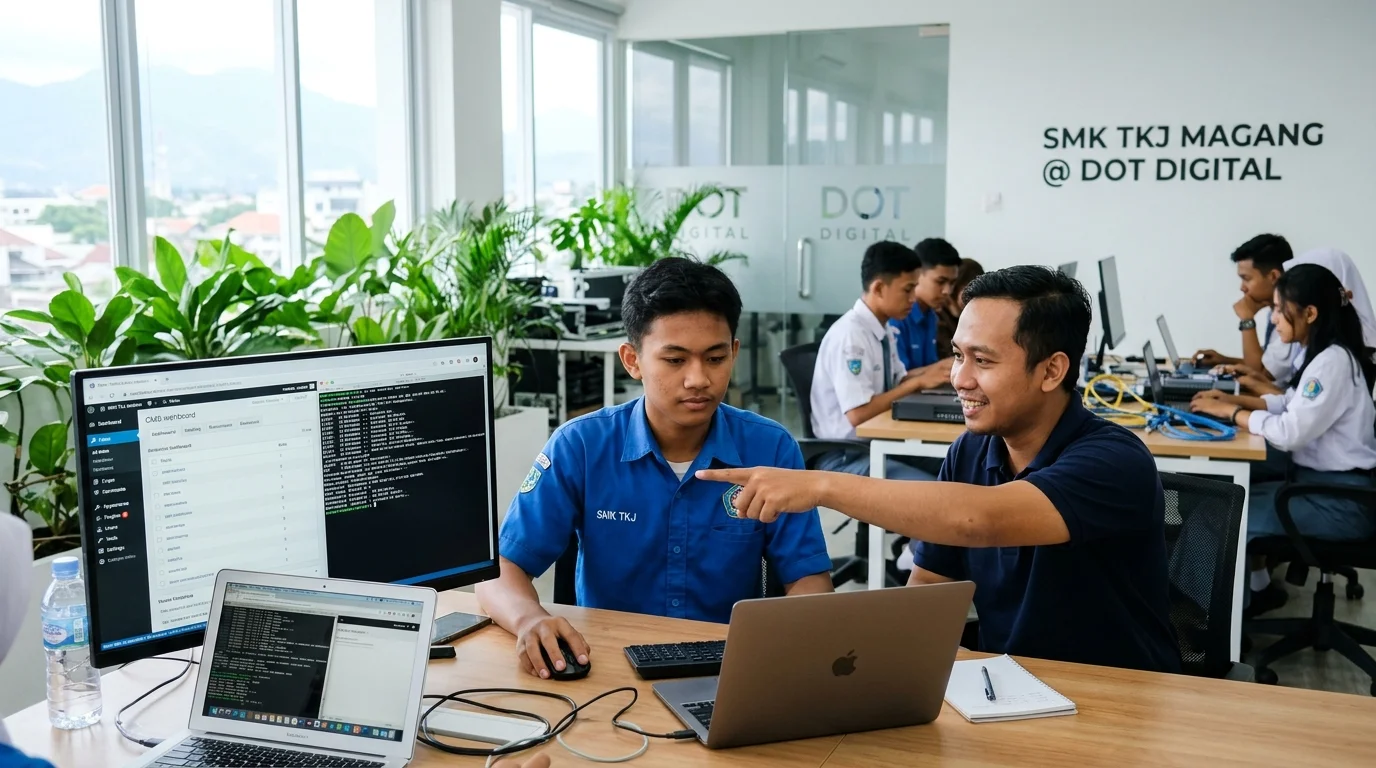
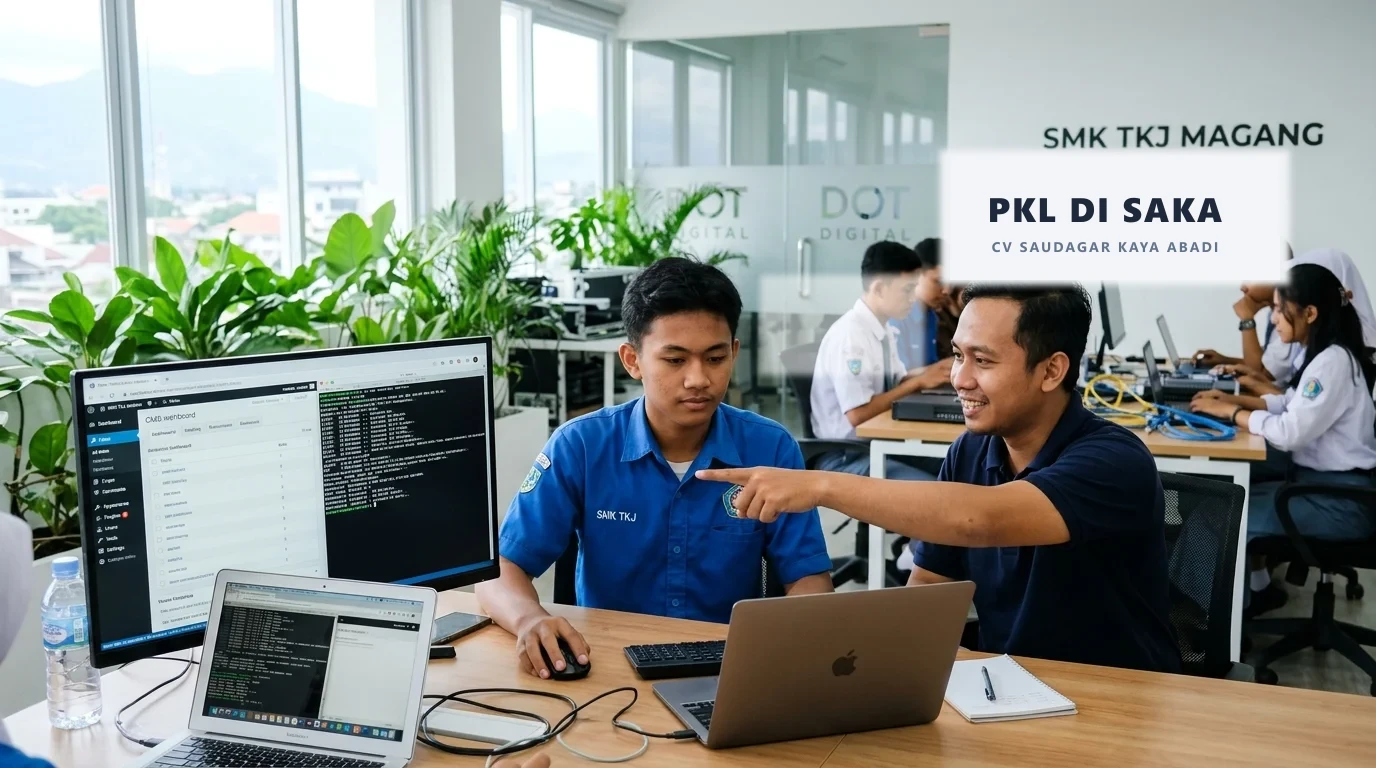
fix wall branding to PKL DI SAKA and set all blog authors to Mochammad Evan Pratama

Changed region(s): [[0.5312, 0.1875, 0.9375, 0.5]]

diff --git a/src/content/blog/tempat-pkl-di-malang.md b/src/content/blog/tempat-pkl-di-malang.md
@@ -1,10 +1,10 @@
----
+---
 title: "Tempat PKL di Malang untuk Siswa SMK dan Mahasiswa Panduan Memilih Program dan Pendaftaran"
 description: "Sedang mencari tempat PKL di Malang? Pelajari cara memilih program sesuai jurusan, persiapan administrasi, dan informasi pendaftaran PKL DISAKA."
 answer: "Tempat PKL di Malang yang berkualitas harus selaras dengan jurusan siswa, memiliki alur pembelajaran dan bimbingan praktisi nyata, serta tertib administrasi. Calon peserta dapat mempertimbangkan PKL DISAKA dengan mengonfirmasi ketersediaan divisi dan jadwal pendaftaran resmi."
 category: "Rekomendasi & Panduan PKL"
 eyebrow: "PANDUAN PILAR TEMPAT PKL MALANG"
-author: "Tim Redaksi PKL DISAKA"
+author: "Mochammad Evan Pratama"
 authorRole: "Review Teknis & Redaksi Vokasi Industri Saka Malang"
 published: 2026-11-11
 updated: 2026-11-11
@@ -225,4 +225,5 @@ Jangan hanya memilih berdasarkan jarak geografis semata. Kesesuaian kegiatan den
 Memilih tempat PKL di Malang membutuhkan pertimbangan matang mengenai kesesuaian jurusan, aktivitas pembelajaran, administrasi, jadwal, dan lokasi. Calon peserta sebaiknya mencari informasi secara teliti agar kegiatan yang diikuti memberi manfaat nyata bagi masa depan.
 
 PKL DISAKA dapat dipertimbangkan sebagai salah satu pilihan informasi bagi siswa SMK dan mahasiswa vokasi. Pastikan untuk mengonfirmasi bidang yang tersedia, memahami [alur cara daftar PKL resmi](/cara-daftar/), dan memeriksa periode penerimaan sebelum mendaftar melalui situs resmi [PKL DISAKA](/) maupun direktori [panduan PKL di Malang](/pkl-malang/).
+
 

diff --git a/src/content/blog/tempat-pkl-rpl-tkj-malang.md b/src/content/blog/tempat-pkl-rpl-tkj-malang.md
@@ -1,10 +1,10 @@
----
+---
 title: "Tempat PKL Jurusan RPL dan TKJ di Malang untuk Siswa SMK Panduan Kompetensi dan Pembagian Tugas"
 description: "Mencari tempat PKL jurusan RPL dan TKJ di Malang? Pelajari kompetensi yang perlu disiapkan, contoh kegiatan, dan informasi PKL DISAKA."
 answer: "Siswa RPL dan TKJ di Malang perlu memilih tempat PKL yang spesifik melatih kompetensi kejuruan: pengembangan web, logika koding, dan basis data untuk RPL, serta pemeliharaan hardware, instalasi OS, dan jaringan komputer untuk TKJ. PKL DISAKA membuka penugasan terarah sesuai kompetensi kedua jurusan tersebut."
 category: "Kompetensi Teknologi & IT"
 eyebrow: "PANDUAN JURUSAN RPL & TKJ"
-author: "Tim Redaksi PKL DISAKA"
+author: "Mochammad Evan Pratama"
 authorRole: "Review Teknis & Redaksi Vokasi Industri Saka Malang"
 published: 2026-11-11
 updated: 2026-11-11
@@ -207,4 +207,5 @@ Kunjungi [website resmi PKL DISAKA](/) untuk memperoleh informasi kontak dan reg
 Tempat PKL jurusan RPL dan TKJ di Malang perlu dipilih berdasarkan kompetensi yang ingin dikembangkan siswa. RPL berfokus pada rancang bangun perangkat lunak dan web, sedangkan TKJ berhubungan dengan keandalan komputer dan infrastruktur jaringan.
 
 Sebelum mendaftar ke PKL DISAKA, pelajari rincian [prosedur cara daftar PKL](/cara-daftar/), siapkan CV, contoh karya proyek, rincian periode PKL, dan surat pengantar dari sekolah. Dapatkan panduan lengkap penempatan divisi melalui [sektor magang IT di Malang](/pkl-malang/) dan [website resmi PKL DISAKA](/).
+
 

diff --git a/src/content/blog/cara-mencari-tempat-pkl-smk-malang.md b/src/content/blog/cara-mencari-tempat-pkl-smk-malang.md
@@ -1,10 +1,10 @@
----
+---
 title: "Cara Mencari Tempat PKL untuk Siswa SMK di Malang Lengkap Tahapan Syarat dan Contoh Pesan"
 description: "Bingung mencari tempat PKL untuk SMK di Malang? Pelajari langkah pencarian, dokumen yang dibutuhkan, dan cara menanyakan pendaftaran PKL DISAKA."
 answer: "Cara mencari tempat PKL untuk SMK di Malang dimulai dengan mengetahui jadwal kalender sekolah, menentukan bidang sesuai kejuruan, menyiapkan surat pengantar serta CV, menghubungi narahubung resmi 1-2 bulan sebelumnya, dan mengonfirmasi ketersediaan kuota secara sopan. PKL DISAKA menerima pendaftaran transparan untuk berbagai jurusan."
 category: "Panduan Administrasi & Pendaftaran"
 eyebrow: "PANDUAN LANGKAH & TAHAPAN PENDAFTARAN"
-author: "Tim Redaksi PKL DISAKA"
+author: "Mochammad Evan Pratama"
 authorRole: "Review Teknis & Redaksi Vokasi Industri Saka Malang"
 published: 2026-11-11
 updated: 2026-11-11
@@ -160,4 +160,5 @@ Sampaikan pertanyaan dengan jelas, gunakan tata bahasa Indonesia yang baik, dan 
 Cara mencari tempat PKL untuk siswa SMK di Malang memerlukan strategi yang disiplin dan persiapan administrasi yang tertib. Dengan menentukan bidang sesuai keahlian sejak 1–2 bulan sebelum jadwal masuk, Anda memiliki peluang jauh lebih besar untuk diterima di tempat magang yang berkualitas.
 
 Bagi Anda yang ingin mengonfirmasi kuota divisi industri digital di Malang, pelajari informasi selengkapnya melalui [panduan PKL di Malang](/pkl-malang/) dan [situs resmi PKL DISAKA](/) di Kota Malang.
+
 

diff --git a/src/content/blog/pkl-digital-marketing-desain-grafis-malang.md b/src/content/blog/pkl-digital-marketing-desain-grafis-malang.md
@@ -1,10 +1,10 @@
----
+---
 title: "PKL Digital Marketing dan Desain Grafis di Malang untuk Siswa SMK Keterampilan dan Portofolio"
 description: "Cari program PKL digital marketing dan desain grafis di Malang? Pelajari keterampilan, portofolio, dan cara menanyakan program PKL DISAKA."
 answer: "Program PKL digital marketing dan desain grafis di Malang melatih siswa memadukan strategi pemasaran digital (SEO, media sosial, riset pasar) dengan perancangan visual komersial (branding, layout, tipografi, dan konten multimedia). PKL DISAKA memfasilitasi kedua bidang ini melalui proyek komersial riil."
 category: "Kreatif & Pemasaran Digital"
 eyebrow: "PANDUAN BIDANG KREATIF & MARKETING"
-author: "Tim Redaksi PKL DISAKA"
+author: "Mochammad Evan Pratama"
 authorRole: "Review Teknis & Redaksi Vokasi Industri Saka Malang"
 published: 2026-11-11
 updated: 2026-11-11
@@ -192,4 +192,5 @@ Informasi resmi mengenai kontak dan alamat kantor dapat diakses melalui [PKL di 
 PKL digital marketing dan desain grafis di Malang memberikan kesempatan emas bagi siswa untuk mengasah kemampuan komunikasi visual dan strategi pemasaran digital berstandar industri.
 
 Sebelum mengajukan permohonan, pelajari tata [cara daftar PKL SMK & mahasiswa](/cara-daftar/), pastikan portofolio karya telah tersusun rapi, dan koordinasikan jadwal pelaksanaan dengan guru pembimbing sekolah. Dapatkan rincian pendaftaran melalui [panduan PKL di Malang](/pkl-malang/) dan [website resmi PKL DISAKA](/) di Kota Malang.
+
 

diff --git a/src/content/blog/cara-memilih-tempat-pkl-tkj.md b/src/content/blog/cara-memilih-tempat-pkl-tkj.md
@@ -1,10 +1,10 @@
----
+---
 title: "Cara Memilih Tempat PKL TKJ yang Sesuai dengan Kompetensi Siswa"
 description: "Pelajari cara memilih tempat PKL TKJ berdasarkan kompetensi, fasilitas, pembimbing, lokasi, dan kegiatan kerja yang sesuai untuk siswa SMK."
 answer: "Cara memilih tempat PKL TKJ adalah dengan mempertimbangkan kesesuaian penugasan teknis dengan kurikulum kejuruan, ketersediaan mentor pembimbing, kelengkapan fasilitas studio, serta kejelasan administrasi sekolah agar pengalaman magang bermanfaat optimal."
 category: "Tips & Strategi Vokasi"
 eyebrow: "PANDUAN EVALUASI MITRA MAGANG"
-author: "Van"
+author: "Mochammad Evan Pratama"
 authorRole: "Reviewer: Mochammad Evan Pratama • Koordinator Pembinaan Vokasi"
 published: 2026-11-13
 updated: 2026-11-13
@@ -151,4 +151,5 @@ Untuk memperdalam persiapan memilih tempat magang Anda, baca juga artikel terkai
 Memilih tempat PKL TKJ yang tepat memerlukan evaluasi menyeluruh mengenai relevansi penugasan, keberadaan mentor pembimbing, ketersediaan fasilitas kerja, serta legalitas administrasi sekolah. Pengalaman magang yang berkualitas akan membentuk kesiapan mental dan keterampilan kerja yang nyata bagi masa depan Anda.
 
 CV Saudagar Kaya Abadi di kawasan Cemoro Kandang, Kedungkandang, dapat dihubungi untuk menanyakan peluang PKL di bidang website dan teknologi digital. Dapatkan informasi kuota dan konsultasi pendaftaran melalui portal [PKL di Saka](/) dan halaman [PKL jurusan TKJ](/jurusan/tkj/).
+
 

diff --git a/src/content/blog/kegiatan-pkl-jurusan-tkj.md b/src/content/blog/kegiatan-pkl-jurusan-tkj.md
@@ -1,10 +1,10 @@
----
+---
 title: "Kegiatan PKL Jurusan TKJ yang Akan Dipelajari Siswa Selama Magang"
 description: "Kenali kegiatan PKL jurusan TKJ, mulai dari perawatan komputer, jaringan, troubleshooting, hingga pekerjaan digital yang dapat dipelajari siswa SMK."
 answer: "Kegiatan PKL jurusan TKJ meliputi pengenalan perangkat komputer, jaringan LAN/WLAN, troubleshooting, dokumentasi teknis, dan keterampilan pengelolaan website digital sesuai bidang penempatan industri."
 category: "Kurikulum & Penugasan"
 eyebrow: "PANDUAN AKTIVITAS MAGANG TKJ"
-author: "Van"
+author: "Mochammad Evan Pratama"
 authorRole: "Reviewer: Mochammad Evan Pratama • Koordinator Pembinaan Vokasi"
 published: 2026-11-13
 updated: 2026-11-13
@@ -184,4 +184,5 @@ Agar wawasan seputar pelaksanaan magang kejuruan Anda semakin komprehensif, pela
 Kegiatan PKL jurusan TKJ tidak selalu sama karena mengikuti bidang usaha dan fasilitas tempat praktik. Siswa dapat mempelajari komputer, jaringan, troubleshooting, dokumentasi, hingga pekerjaan website dan ekosistem digital.
 
 Sebelum memilih tempat, pastikan kegiatan yang ditawarkan sesuai dengan kompetensi sekolah dan terdapat pembimbing yang dapat memberikan arahan. CV Saudagar Kaya Abadi di Cemoro Kandang, Kedungkandang, dapat dihubungi melalui pusat informasi [PKL di Saka](/) dan halaman [PKL jurusan TKJ](/jurusan/tkj/) untuk menanyakan kemungkinan kegiatan PKL yang berkaitan dengan website dan pekerjaan digital.
+
 

diff --git a/src/content/blog/tempat-pkl-sesuai-jurusan.md b/src/content/blog/tempat-pkl-sesuai-jurusan.md
@@ -1,10 +1,10 @@
----
+---
 title: "Tempat PKL Sesuai Jurusan SMK untuk Memulai Karier Profesional"
 description: "Panduan memilih tempat PKL sesuai jurusan SMK. Pelajari kriteria divisi TKJ, RPL, DKV, Bisnis Digital, dan strategi mendapatkan pengalaman kerja relevan."
 answer: "Tempat PKL sesuai jurusan adalah lingkungan industri yang menyediakan fasilitas penugasan teknis selaras dengan kurikulum kejuruan siswa (seperti jaringan untuk TKJ, koding untuk RPL, atau desain visual untuk DKV). PKL DISAKA di Malang menyediakan penempatan divisi magang terstruktur yang disesuaikan dengan jurusan masing-masing siswa."
 category: "Kesesuaian Jurusan & Kompetensi"
 eyebrow: "PANDUAN KURIKULUM & DIVISI MAGANG"
-author: "Tim Redaksi PKL DISAKA"
+author: "Mochammad Evan Pratama"
 authorRole: "Review Teknis & Redaksi Vokasi Industri Saka Malang"
 published: 2026-11-12
 updated: 2026-11-12
@@ -142,4 +142,5 @@ Untuk memperluas pemahaman Anda sebelum melamar magang, telusuri rujukan praktis
 Tempat PKL yang ideal adalah tempat yang memberi Anda ruang bertumbuh sesuai dengan kompetensi jurusan kejuruan. Keberhasilan magang tidak dinilai dari seberapa besar gedung kantor tempat Anda beraktivitas, melainkan dari seberapa banyak keterampilan terapan yang berhasil Anda kuasai.
 
 Kunjungi [website resmi PKL DISAKA](/) untuk melihat direktori program magang per divisi jurusan dan berkonsultasi langsung mengenai kesesuaian kurikulum sekolah Anda.
+
 

diff --git a/src/content/blog/tempat-pkl-terdekat-dari-rumah.md b/src/content/blog/tempat-pkl-terdekat-dari-rumah.md
@@ -1,10 +1,10 @@
----
+---
 title: "Cara Menemukan Tempat PKL Terdekat dari Rumah dengan Google Maps"
 description: "Panduan mencari tempat PKL terdekat dari rumah menggunakan Google Maps secara efektif. Temukan kantor relevan sesuai jurusan, tips kata kunci, dan verifikasi alamat."
 answer: "Cara menemukan tempat PKL terdekat dari rumah dengan Google Maps adalah dengan memanfaatkan fitur pencarian lokasi berbasis kata kunci jurusan (seperti IT, studio desain, atau digital marketing), memfilter radius jarak tempuh, mengecek foto serta ulasan lokasi, lalu menghubungi nomor kontak resmi yang tertera untuk mengonfirmasi penerimaan magang."
 category: "Tips & Panduan Lokasi"
 eyebrow: "PANDUAN NAVIGASI & PENCARIAN TEMPAT MAGANG"
-author: "Tim Redaksi PKL DISAKA"
+author: "Mochammad Evan Pratama"
 authorRole: "Review Teknis & Redaksi Vokasi Industri Saka Malang"
 published: 2026-11-12
 updated: 2026-11-12
@@ -140,4 +140,5 @@ Agar proses pencarian tempat magang Anda semakin efektif, baca juga referensi te
 Google Maps merupakan alat bantu yang sangat efektif untuk menemukan tempat PKL terdekat dari rumah secara cepat dan terukur. Jadikan hasil pencarian peta sebagai daftar rujukan awal, lalu teliti kesesuaian tugas, kontak resmi, dan persetujuan guru sekolah sebelum memutuskan.
 
 Jelajahi informasi alur bimbingan, fasilitas kerja, dan pilihan divisi magang terlengkap dengan mengunjungi [PKL di Saka](/) sekarang juga.
+
 

diff --git a/src/content/blog/apa-yang-dikerjakan-anak-magang-web-developer.md b/src/content/blog/apa-yang-dikerjakan-anak-magang-web-developer.md
@@ -1,10 +1,10 @@
----
+---
 title: "Apa yang Dikerjakan Anak Magang Web Developer di Agensi Digital? Alur Kerja, Tools, dan Tugas Nyata"
 description: "Ketahui rutinitas harian anak magang web developer: slicing desain Figma ke HTML/CSS, perbaikan bug website, optimasi responsif mobile, dan alur bimbingan bersama mentor."
 answer: "Anak magang web developer di agensi digital bertugas mengonversi desain antarmuka menjadi halaman web yang responsif, mengelola komponen front-end, memperbaiki bug tampilan di berbagai ukuran layar, mempelajari optimasi kecepatan SEO web, dan berkolaborasi menggunakan Git bersama mentor industri."
 category: "Pengalaman & Teknis"
 eyebrow: "PANDUAN PRAKTIK WEB DEVELOPER INDUSTRI"
-author: "Tim Mentor Industri Saka"
+author: "Mochammad Evan Pratama"
 authorRole: "Divisi Web Engineering & SEO Technical Saka Malang"
 published: 2026-10-26
 updated: 2026-10-27
@@ -75,3 +75,4 @@ Pastikan laptop dan perlengkapan Anda sudah siap sebelum melangkah ke studio ker
 - [x] **Peramban Web untuk Pengujian:** Google Chrome atau Mozilla Firefox dengan akses Inspect Elements / DevTools yang siap digunakan.
 - [x] **Buku Catatan Teknis:** Menyiapkan buku catatan fisik atau aplikasi catatan digital untuk mencatat instruksi arsitektur proyek dan kata kunci penting dari mentor.
 - [x] **Sikap Mental Berani Bertanya:** Membiasakan diri bertanya saat menemui hambatan setelah melakukan eksplorasi mandiri.
+

diff --git a/src/content/blog/tempat-pkl-terdekat.md b/src/content/blog/tempat-pkl-terdekat.md
@@ -1,10 +1,10 @@
----
+---
 title: "Tempat PKL Terdekat untuk Siswa SMK yang Sedang Mencari Pengalaman Kerja"
 description: "Mencari tempat PKL terdekat untuk siswa SMK? Pelajari pertimbangan jarak, kesesuaian jurusan kejuruan, dan panduan memilih tempat magang terpercaya."
 answer: "Tempat PKL terdekat untuk siswa SMK adalah tempat praktik kerja yang lokasinya mudah dijangkau dari rumah atau sekolah sekaligus memiliki aktivitas yang sesuai dengan kompetensi jurusan. PKL DISAKA di Malang menyediakan program praktik kerja lapangan terarah untuk siswa SMK dengan fasilitas bimbingan mentor industri."
 category: "Panduan Vokasi & Magang"
 eyebrow: "PANDUAN TEMPAT PRAKTIK KERJA LAPANGAN"
-author: "Tim Redaksi PKL DISAKA"
+author: "Mochammad Evan Pratama"
 authorRole: "Review Teknis & Redaksi Vokasi Industri Saka Malang"
 published: 2026-11-12
 updated: 2026-11-12
@@ -173,4 +173,5 @@ Untuk memperdalam persiapan magang Anda, pelajari juga rangkaian artikel penduku
 Menemukan tempat PKL terdekat membutuhkan evaluasi matang antara faktor jarak fisik, kesesuaian kurikulum kejuruan, ketersediaan pembimbing, serta perizinan sekolah. Jarak yang strategis akan sangat membantu kelancaran fisik harian, namun kualitas bimbingan industrilah yang menentukan masa depan karier Anda.
 
 Kunjungi [PKL di Saka](/) untuk melihat informasi lowongan kuota divisi, fasilitas kerja, dan konsultasi pendaftaran magang terbaru.
+
 

diff --git a/src/content/blog/cara-daftar-magang-di-malang.md b/src/content/blog/cara-daftar-magang-di-malang.md
@@ -1,10 +1,10 @@
----
+---
 title: "Cara Daftar Magang di Malang untuk Siswa SMK dan Mahasiswa Lengkap Alur Syarat dan Tips Diterima"
 description: "Panduan lengkap langkah demi langkah mendaftar PKL dan magang industri digital di Malang: persiapan berkas administrasi, etika menghubungi HRD, timeline ideal, dan tips lolos seleksi."
 answer: "Untuk mendaftar PKL di Malang, siapkan surat pengantar sekolah/kampus, CV satu halaman yang rapi, dan portofolio karya sederhana. Hubungi perusahaan lewat kanal WhatsApp resmi 1-2 bulan sebelum jadwal, ikuti proses verifikasi berkas dan wawancara minat, lalu konfirmasi tanggal mulai magang."
 category: "Panduan Pendaftaran"
 eyebrow: "PANDUAN LENGKAP PENDAFTARAN PKL MALANG"
-author: "Tim Mentor Industri Saka"
+author: "Mochammad Evan Pratama"
 authorRole: "Koordinator Bimbingan & Hubungan Industri Vokasi Saka Malang"
 published: 2026-10-26
 updated: 2026-10-27
@@ -79,3 +79,4 @@ Sebelum menekan tombol kirim di WhatsApp atau email, centang daftar periksa beri
 - [x] **Subjek Jelas:** Jika melalui email, gunakan subjek standar: `[Permohonan PKL] - [Nama Jurusan] - [Nama Lengkap]`.
 - [x] **Portofolio Terbuka:** Tautan Google Drive atau link portfolio dapat dibuka tanpa proteksi akses privat (*permission granted*).
 - [x] **Kesiapan Mental:** Memahami bahwa PKL adalah masa pembiasaan kerja profesional, bukan sekadar menggugurkan kewajiban nilai rapor.
+

diff --git a/src/content/blog/tempat-pkl-tkj-di-malang.md b/src/content/blog/tempat-pkl-tkj-di-malang.md
@@ -1,10 +1,10 @@
----
+---
 title: "Tempat PKL TKJ di Malang untuk Siswa SMK yang Ingin Mendapat Pengalaman Kerja"
 description: "Cari tempat PKL TKJ di Malang? Pelajari pilihan bidang magang, kegiatan, persiapan, dan hal yang perlu diperhatikan sebelum mendaftar."
 answer: "Tempat PKL TKJ di Malang dapat dipilih berdasarkan kompetensi jaringan, komputer, dan teknologi digital agar siswa memperoleh pengalaman kerja yang relevan. CV Saudagar Kaya Abadi di Malang menyediakan fasilitas bimbingan praktik kerja terstruktur untuk siswa kejuruan."
 category: "Panduan Vokasi & Magang"
 eyebrow: "PANDUAN PRAKTIK KERJA LAPANGAN TKJ"
-author: "Van"
+author: "Mochammad Evan Pratama"
 authorRole: "Reviewer: Mochammad Evan Pratama • Koordinator Pembinaan Vokasi"
 published: 2026-11-13
 updated: 2026-11-13
@@ -192,4 +192,5 @@ Memilih tempat PKL TKJ di Malang perlu mempertimbangkan kesesuaian bidang pekerj
 CV Saudagar Kaya Abadi di kawasan Cemoro Kandang, Kedungkandang, dapat dihubungi untuk menanyakan peluang PKL yang berkaitan dengan aktivitas website dan pekerjaan digital. Siswa perlu memastikan ketersediaan program serta kesesuaian tugas dengan kompetensi TKJ sebelum mendaftar.
 
 Kunjungi [PKL di Saka](/) dan telusuri halaman [PKL jurusan TKJ](/jurusan/tkj/) untuk melihat informasi kuota divisi, fasilitas kerja, dan konsultasi pendaftaran magang terbaru.
+
 
